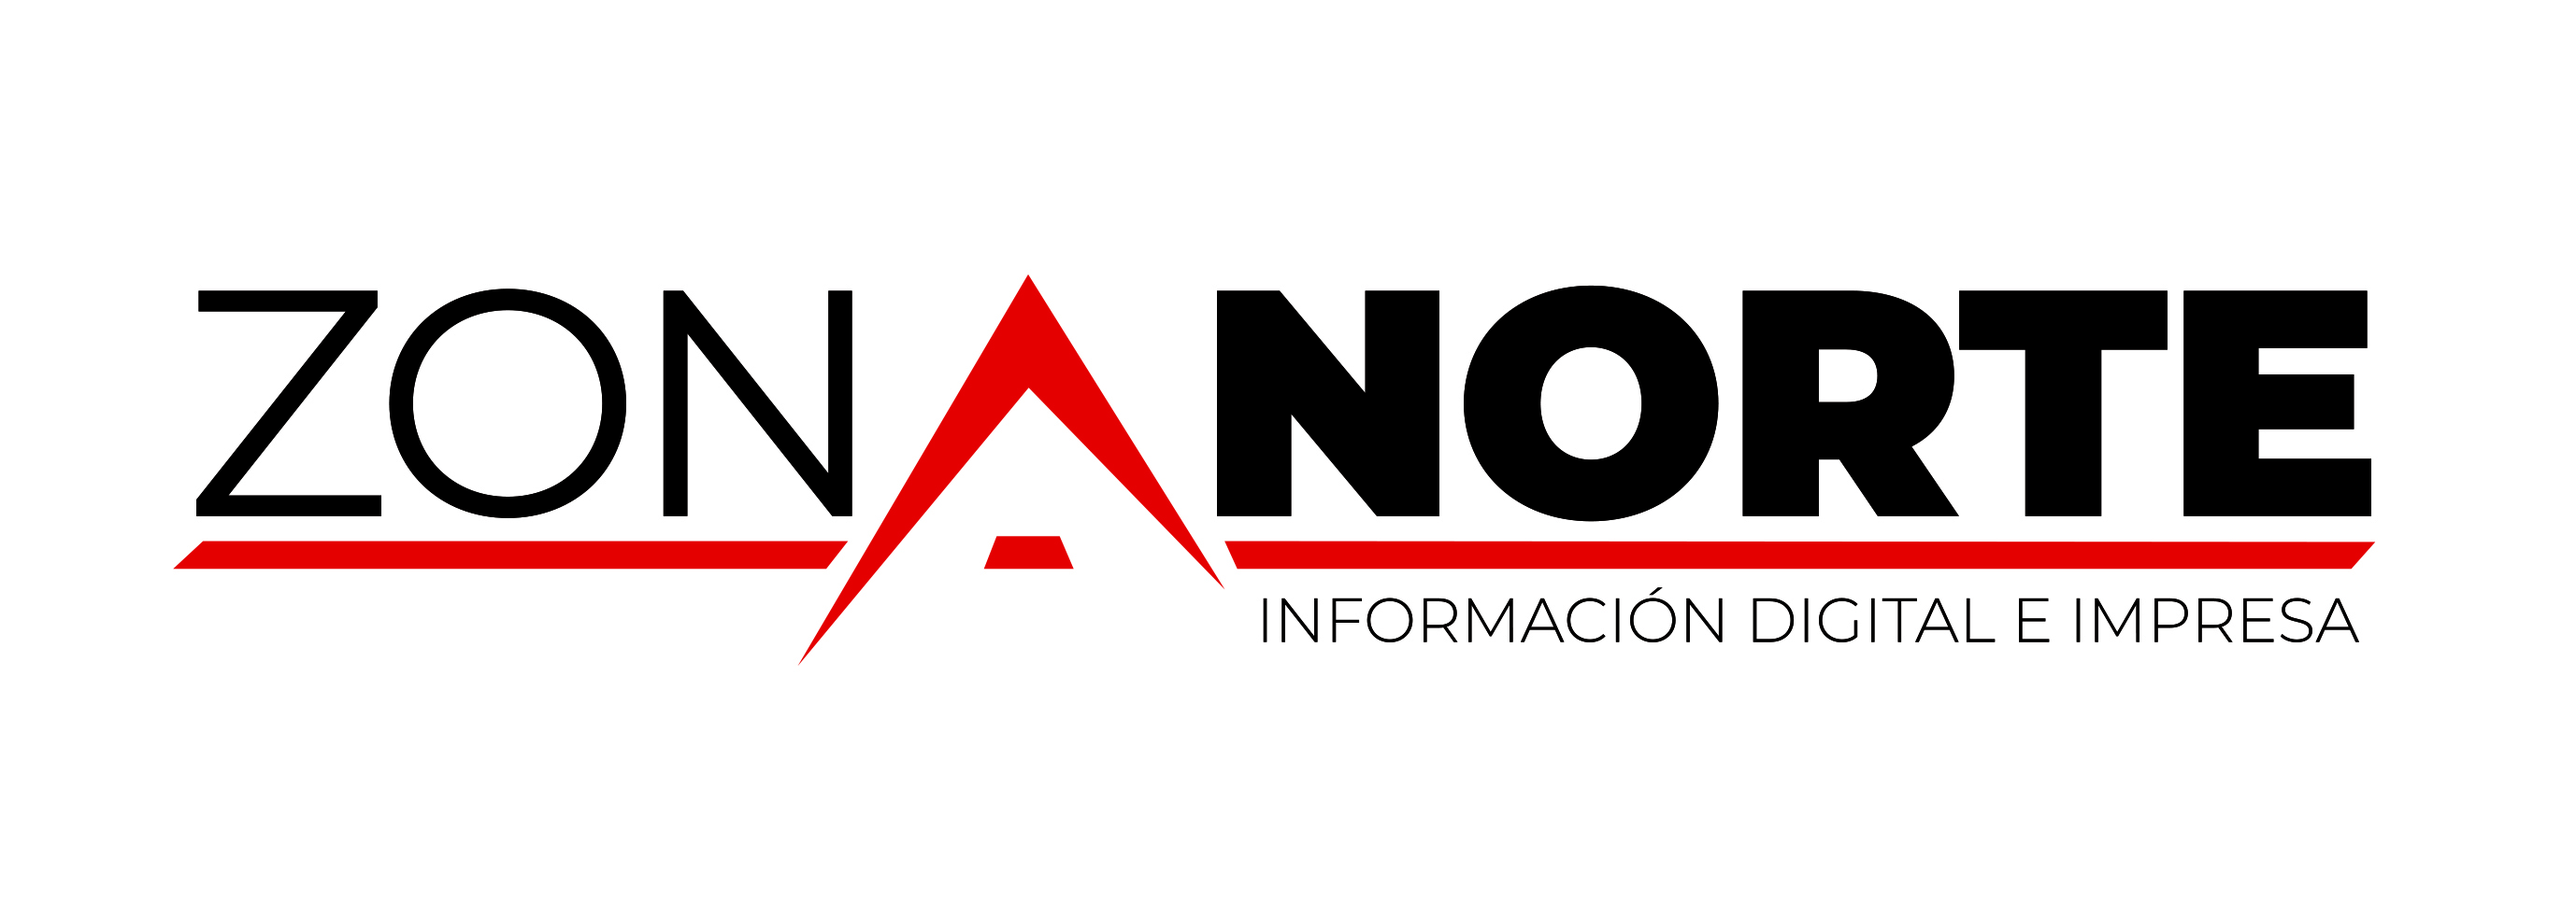
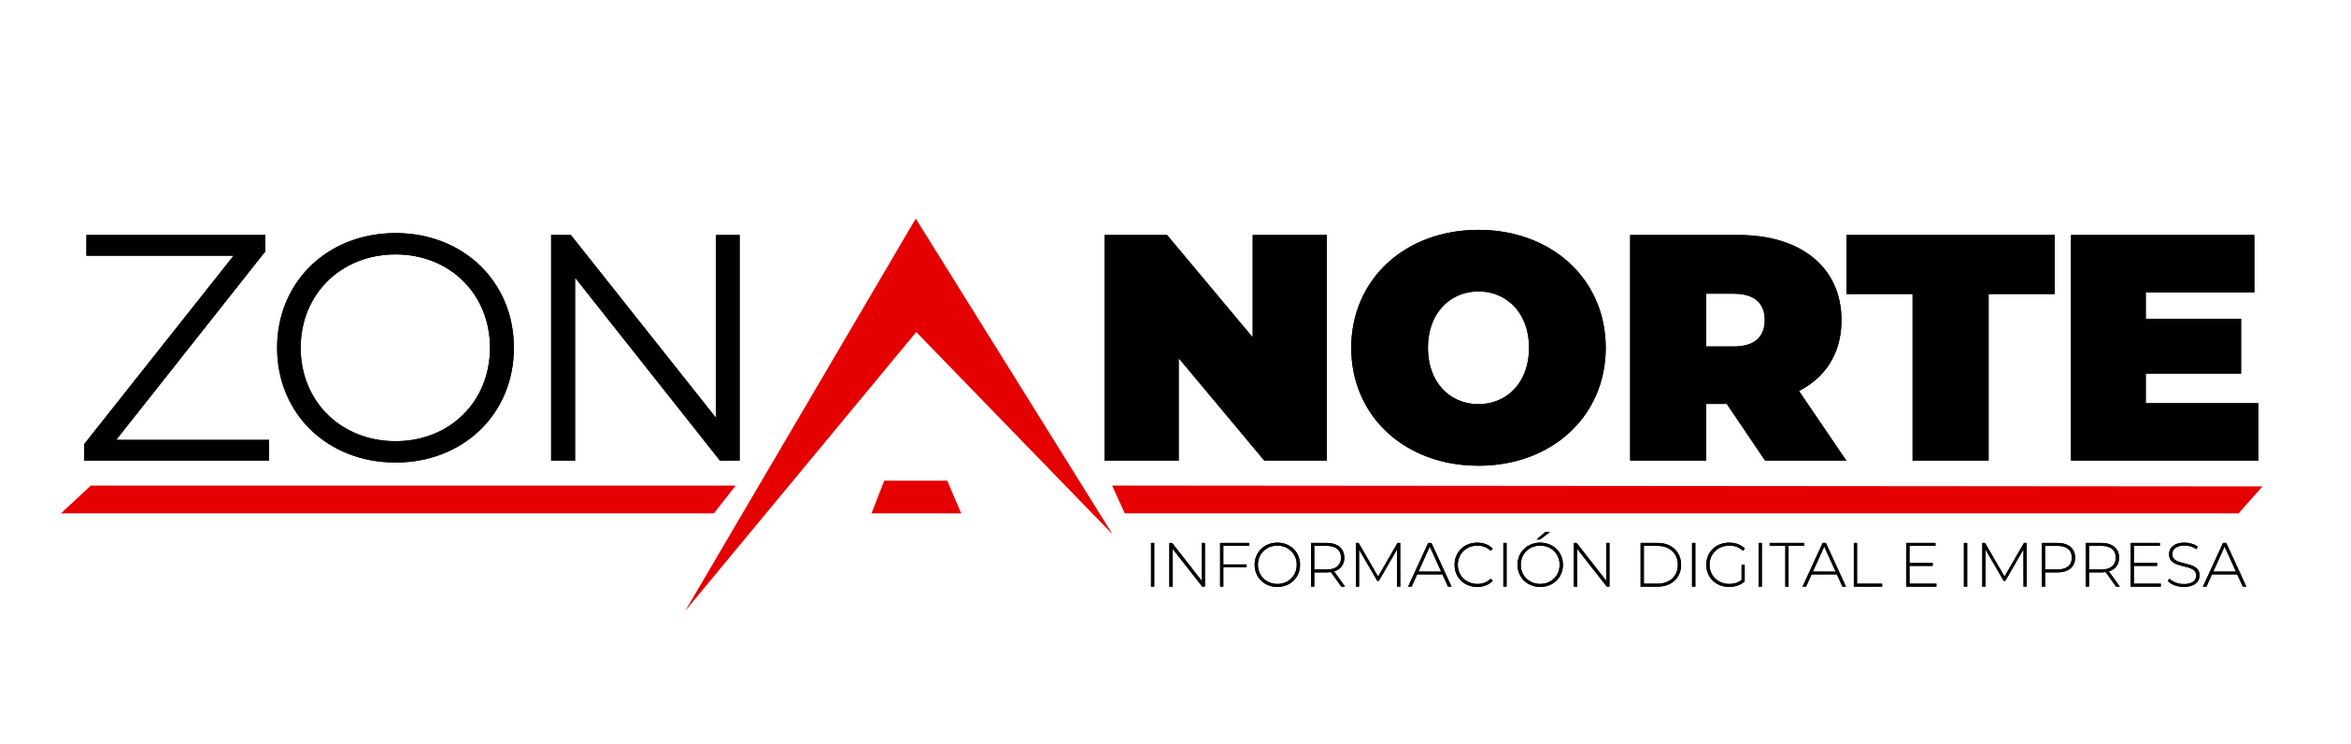
Se termino de realizar el responsive del index y de las noticias

Changed region(s): [[0.031, 0.3015, 0.961, 0.8141], [0.465, 0.3015, 0.496, 0.3317]]

diff --git a/css/responsiveNoticia.css b/css/responsiveNoticia.css
@@ -1,0 +1,175 @@
+@media screen and (max-width:1200px){
+    .main .publiIzquierda,.publiDerecha{
+        display: none;
+    }
+}
+@media screen and (max-width:1024px){
+    .container, .container-md, .container-sm {
+        max-width: 90%;
+
+    }   
+    .main .container .card .card-header h2{
+     font-size: 22px;   
+     padding: 6px 0;
+    }
+    .main .container .masNoticias img {
+        width: 100%;
+        padding: 0px;
+    }
+    .main .container .masNoticias p {
+        padding: 0px 20px;
+    }
+}
+@media screen and (max-width:768px){
+    .container, .container-md, .container-sm{
+        max-width: 100%;
+    }
+    .carousel-item .imagenesCarousel{
+        height: 100px;
+        width: 100%;
+    }
+    
+    .containerClimaTiempo .container .ClimaTiempo .time h6{
+        font-size: 11px;
+    }
+    .main .container .row{
+        display: initial;
+    }
+    .main .container .row .col.col-8{
+        max-width: 100%;
+    }
+    .main .container .row .col.col-4{
+        
+        display: grid;
+        grid-template-columns: repeat(2,1fr);
+        column-gap: 5px;
+        max-width: 100%;
+    }
+    .main .container .row .col.col-4 .card{
+        margin-bottom: 20px;
+    }
+    .main .container .row .col.col-4 .card.videoCard{
+        grid-column-start: 1;
+        grid-column-end: 3;
+    }
+    .main .container .row .col.col-4 .accordion{
+        grid-column-start: 1;
+        grid-column-end: 3;
+        
+    }
+    .main .container .row .col.col-8 h1 {
+        font-size: 30px;
+        font-weight: bold;
+    }
+    .main .container .masNoticias .containerRedesSociales {
+        /* margin-top: 20px; */
+        padding-left: 0;
+    }
+
+    .footer .container .row{
+        display: grid;
+        max-width: 100%;
+        grid-template-columns: repeat(2,1fr);
+        column-gap: 10px;
+        margin:0;
+    }
+    .footer .container .row .col.col-4{
+        max-width: 100%;
+        padding: 0;
+        /* min-width: 100%; */
+        
+    }
+    .footer .container .row .col.col-4:nth-of-type(1){
+        grid-column-start:1 ;
+        grid-column-end: 3;
+    }
+    .footer .container .row .col.col-4 p{
+        padding: 0;
+    }
+    
+}
+
+@media screen and (max-width:480px){
+    .footer .container .row {
+        display: initial;
+        
+        margin: 0;
+    }
+
+    .main .container{
+        padding: 0;
+    }
+    .main .container .row .col.col-8 h1{
+        font-size: 25px;
+        font-weight: bold;
+    }
+    .main .container .row .col.col-8 h3{
+        font-size: 20px;
+    }
+    .main .container .masNoticias p {
+        padding: 0px 10px;
+    }
+    
+    .main .container .row .col.col-4{
+        
+        display: initial;
+        max-width: 100%;
+    }
+    .section .ultimasNoticias{
+        display: initial;
+    }
+    .containerLogopubli .container{
+        padding: 0;
+    }
+    .containerLogopubli .container .row{
+        display: initial;
+        margin: 0;
+    }
+    .containerLogopubli .container .row .col.col-4{
+        padding: 0;
+        max-width: 100%;
+    }
+    .containerLogopubli .container .row .col.col-8{
+        padding: 0;
+        max-width: 100%;
+        
+    }
+    .containerLogopubli .container .row .col.col-8 .masNoticias #textNotaLarga{
+        font-size: 13px;
+    }
+    .containerLogopubli .container .row .col.col-8 .masNoticias h4{
+        font-size: 1.2rem;
+        padding-left: 15px;
+    }
+    .main .container .masNoticias .containerComentarios .comentario {
+        
+        grid-template-columns: 35% 55%;
+        
+    }
+    .main .container .masNoticias .containerComentarios .comentario .textoComentario p {
+        padding:0;
+        
+    }
+    .containerClimaTiempo{
+        height: auto;
+    }
+    .containerClimaTiempo .container .ClimaTiempo{
+        justify-content: space-around;
+    }
+    .containerClimaTiempo .container .ClimaTiempo .time h6{
+        font-size: 8px;
+    }
+    .containerClimaTiempo .container .ClimaTiempo .logos a{
+        font-size: 10px;
+    }
+    .carousel-item .imagenesCarousel{
+        height: 150px;
+    }
+    .containerClimaTiempo .container .ClimaTiempo .time{
+        display: none;
+    }
+}
+
+@media screen and (max-width:320px){
+
+}

diff --git a/nodos/noticia.html b/nodos/noticia.html
@@ -9,6 +9,7 @@
     <link rel="stylesheet" href="../css/icon-twitter.css">
     <link rel="stylesheet" href="../css/estilos.css">
     <link rel="stylesheet" href="../css/noticias.css">
+    <link rel="stylesheet" href="../css/responsiveNoticia.css">
     <title>Noticia</title>
 </head>
 <body>
@@ -38,7 +39,7 @@
                 <div class="col col-4">
                     <figure>
                       <a href="../index.html">
-                        <img src="../img/Zona Norte blanco.jpg" alt="">
+                        <img src="../img/Zona Norte blanco.png" alt="">
                       </a>
                     </figure>
                 </div>
@@ -227,5 +228,6 @@
     <script src="https://stackpath.bootstrapcdn.com/bootstrap/4.4.1/js/bootstrap.min.js" integrity="sha384-wfSDF2E50Y2D1uUdj0O3uMBJnjuUD4Ih7YwaYd1iqfktj0Uod8GCExl3Og8ifwB6" crossorigin="anonymous"></script>
     <script src="../js/hora.js"></script>
     <script src="../js/nota.js"></script>
+    <!-- <script src="../js/llenarPublicidad.js"></script> -->
 </body>
 </html>

diff --git a/index.html b/index.html
@@ -42,7 +42,7 @@
                       </a>
                     </figure>
                 </div>
-                <div class="col col-8" style="">
+                <div class="col col-8">
                     <div id="carouselExampleIndicators" class="carousel slide" style="height: 100%;" data-ride="carousel">
                         <ol class="carousel-indicators">
                           <li data-target="#carouselExampleIndicators" data-slide-to="0" class="active"></li>
